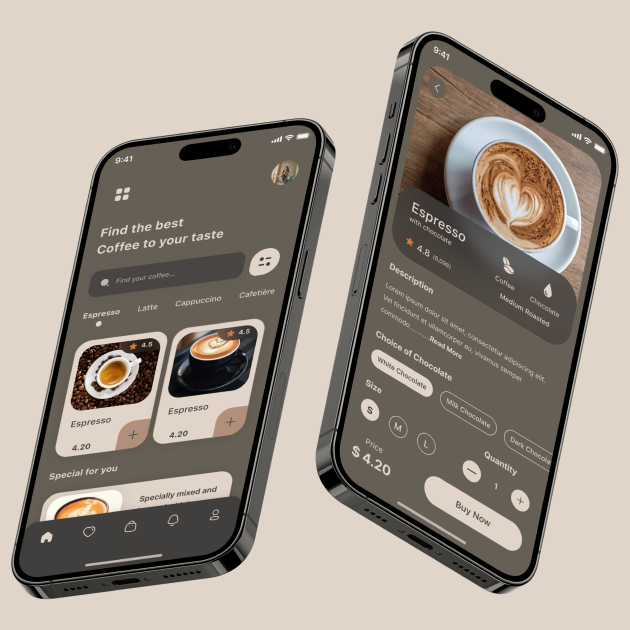
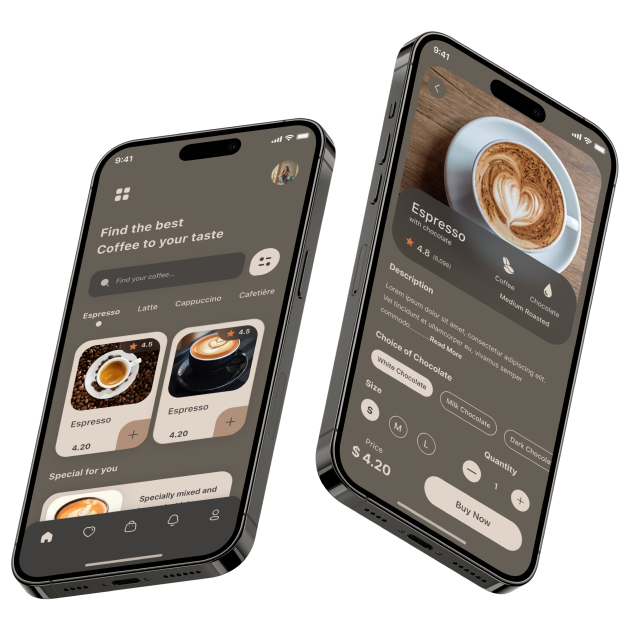
feat: implement dark theme styles across main page

diff --git a/index.html b/index.html
@@ -136,7 +136,7 @@
             <div class="right circle-container">
                 <div class="circle">
                     <svg class="arrow-svg" width="24" height="24" viewBox="0 0 24 24" fill="none" xmlns="http://www.w3.org/2000/svg">
-                        <path d="M6 12H18.5M18.5 12L12.5 6M18.5 12L12.5 18" stroke="#403F3D" stroke-linecap="round" stroke-linejoin="round"/>
+                        <path d="M6 12H18.5M18.5 12L12.5 6M18.5 12L12.5 18" stroke="currentColor" stroke-linecap="round" stroke-linejoin="round"/>
                     </svg>
                 </div>
             </div>
@@ -168,7 +168,7 @@
         <div class="mobile-app-container">
             <div class="offer-box">
                 <div class="big-text">
-                    <h2><i>Download</i> our apps </h2>
+                    <h2><i>Download</i> our app </h2>
                     <h2>to start ordering</h2>
                 </div>
                 <div class="small-text">
@@ -178,8 +178,8 @@
                 <div class="buttons-box">
                     <div class="app-store-btn">
                         <svg width="28" height="33" viewBox="0 0 28 33" fill="none" xmlns="http://www.w3.org/2000/svg">
-                            <path d="M22.7073 17.6307C22.6704 13.6324 26.065 11.6872 26.2203 11.5966C24.2977 8.86366 21.3178 8.49026 20.2707 8.46048C17.7679 8.20369 15.3403 9.92062 14.0654 9.92062C12.765 9.92062 10.8017 8.48529 8.68579 8.52747C5.96293 8.56841 3.41566 10.1055 2.0186 12.4923C-0.864579 17.359 1.28572 24.5108 4.04802 28.4446C5.42981 30.3712 7.04444 32.5223 9.15784 32.4466C11.2254 32.3635 11.9978 31.1614 14.4929 31.1614C16.9651 31.1614 17.6903 32.4466 19.8457 32.3983C22.0647 32.3635 23.4618 30.463 24.7952 28.519C26.392 26.3108 27.0333 24.1362 27.0588 24.0245C27.0066 24.0071 22.7493 22.4229 22.7073 17.6307Z" fill="#403F3D"/>
-                            <path d="M18.6357 5.87268C19.7477 4.51675 20.5086 2.67205 20.2974 0.800049C18.6879 0.86952 16.675 1.88554 15.5159 3.21169C14.4903 4.38029 13.5742 6.29571 13.8109 8.097C15.6189 8.2285 17.4753 7.20752 18.6357 5.87268Z" fill="#403F3D"/>
+                            <path d="M22.7073 17.6307C22.6704 13.6324 26.065 11.6872 26.2203 11.5966C24.2977 8.86366 21.3178 8.49026 20.2707 8.46048C17.7679 8.20369 15.3403 9.92062 14.0654 9.92062C12.765 9.92062 10.8017 8.48529 8.68579 8.52747C5.96293 8.56841 3.41566 10.1055 2.0186 12.4923C-0.864579 17.359 1.28572 24.5108 4.04802 28.4446C5.42981 30.3712 7.04444 32.5223 9.15784 32.4466C11.2254 32.3635 11.9978 31.1614 14.4929 31.1614C16.9651 31.1614 17.6903 32.4466 19.8457 32.3983C22.0647 32.3635 23.4618 30.463 24.7952 28.519C26.392 26.3108 27.0333 24.1362 27.0588 24.0245C27.0066 24.0071 22.7493 22.4229 22.7073 17.6307Z" fill="currentColor"/>
+                            <path d="M18.6357 5.87268C19.7477 4.51675 20.5086 2.67205 20.2974 0.800049C18.6879 0.86952 16.675 1.88554 15.5159 3.21169C14.4903 4.38029 13.5742 6.29571 13.8109 8.097C15.6189 8.2285 17.4753 7.20752 18.6357 5.87268Z" fill="currentColor"/>
                         </svg>
                         <div class="app-store-text">
                             <p class="btn-text-small">Available on the</p>
@@ -188,10 +188,10 @@
                     </div>
                     <div class="google-play-btn">
                         <svg width="31" height="34" viewBox="0 0 31 34" fill="none" xmlns="http://www.w3.org/2000/svg">
-                            <path d="M0.755796 2.20297C0.393349 2.57289 0.183594 3.14884 0.183594 3.89471V30.4994C0.183594 31.2453 0.393349 31.8212 0.755796 32.1911L0.845252 32.2723L16.1359 17.37V17.0181L0.845252 2.11575L0.755796 2.20297Z" fill="#403F3D"/>
-                            <path d="M23.0776 22.34L17.9863 17.37V17.0181L23.0837 12.0482L23.1979 12.1128L29.2345 15.4617C30.9573 16.4121 30.9573 17.976 29.2345 18.9324L23.1979 22.2753L23.0776 22.34Z" fill="#403F3D"/>
-                            <path d="M22.2733 23.2007L17.0617 18.1195L1.68164 33.1166C2.25384 33.7031 3.18695 33.7737 4.24807 33.1873L22.2733 23.2007Z" fill="#403F3D"/>
-                            <path d="M22.2733 11.1876L4.24807 1.20103C3.18695 0.620579 2.25384 0.691254 1.68164 1.27772L17.0617 16.2688L22.2733 11.1876Z" fill="#403F3D"/>
+                            <path d="M0.755796 2.20297C0.393349 2.57289 0.183594 3.14884 0.183594 3.89471V30.4994C0.183594 31.2453 0.393349 31.8212 0.755796 32.1911L0.845252 32.2723L16.1359 17.37V17.0181L0.845252 2.11575L0.755796 2.20297Z" fill="currentColor"/>
+                            <path d="M23.0776 22.34L17.9863 17.37V17.0181L23.0837 12.0482L23.1979 12.1128L29.2345 15.4617C30.9573 16.4121 30.9573 17.976 29.2345 18.9324L23.1979 22.2753L23.0776 22.34Z" fill="currentColor"/>
+                            <path d="M22.2733 23.2007L17.0617 18.1195L1.68164 33.1166C2.25384 33.7031 3.18695 33.7737 4.24807 33.1873L22.2733 23.2007Z" fill="currentColor"/>
+                            <path d="M22.2733 11.1876L4.24807 1.20103C3.18695 0.620579 2.25384 0.691254 1.68164 1.27772L17.0617 16.2688L22.2733 11.1876Z" fill="currentColor"/>
                         </svg>
                         <div class="google-play-text">
                             <p class="btn-text-small">Available on</p>

diff --git a/styles/index.css b/styles/index.css
@@ -131,7 +131,6 @@ header {
     color: var(--color-light);
 }
 
-
 .theme-btn svg {
     width: 18px;
     height: 18px;
@@ -142,7 +141,10 @@ header {
     color: var(--color-bg);
 }
 
-
+/* Луна в тёмной теме */
+[data-theme="dark"] .theme-btn[data-theme="dark"][aria-pressed="true"] {
+    color: var(--color-light);
+}
 
 
 .menu-link {
@@ -312,12 +314,12 @@ h1 {
     font-weight: 600;
     line-height: 75px;
     text-align: center;
-    color: #403F3D;
+    color: var(--color-text);
     margin-top: 100px;
 }
 
 h1 i {
-    color: #B0907A;
+    color: var(--color-accent);
 }
 
 .fav-coffee-slider-container {
@@ -339,7 +341,7 @@ h1 i {
 }
 
 .coffee-title {
-    color:#403F3D;
+    color: var(--color-text);
     font-size: 24px;
     font-weight: 600;
     line-height: 30px;
@@ -354,7 +356,7 @@ h1 i {
 }
 
 .coffee-info p {
-    color:#403F3D;
+    color: var(--color-text);
     font-size: 16px;
     font-weight: 400;
     line-height:24px;
@@ -362,7 +364,7 @@ h1 i {
 }
 
 .coffee-price {
-    color:#403F3D;
+    color: var(--color-text);
     font-size: 24px;
     font-weight: 600;
     line-height: 30px;
@@ -375,8 +377,8 @@ h1 i {
     width: 60px;
     height: 60px;
     border-radius: 100px;
-    border:1px solid #665F55;
-    color: #403F3D;
+    border: 1px solid var(--color-text);
+    color: var(--color-text);
     transition: background-color 0.6s;
 }
 
@@ -386,15 +388,13 @@ h1 i {
 }
 
 .circle:hover {
-    background-color: #665F55;
+    background-color: var(--color-surface-dark);
     transition: background-color 0.6s;
 }
 
 .circle-container:hover svg path{
-    stroke: #E1D4C9;
+    stroke: var(--color-light);
 }
-
-
 
 .controls {
     display: flex;
@@ -404,16 +404,23 @@ h1 i {
 }
 
 .control {
-    background-color:#C1B6AD;
+    background-color: #C1B6AD;
     width: 40px;
     height: 4px;
     border-radius: 100px;
 }
 
 .control.active {
-    background-color:#665F55;
+    background-color: var(--color-surface-dark);
 }
 
+[data-theme="dark"] .control {
+    background-color: var(--color-surface-dark);
+}
+
+[data-theme="dark"] .control.active {
+    background-color: #C1B6AD;
+}
 
 /* SECTION =====ABOUT=========================================== */
 
@@ -430,11 +437,11 @@ h1 i {
     line-height: 75px;
     font-weight: 600;
     margin: 0;
-    color: #403F3D;
+    color: var(--color-text);
 }
 
 .about-text-block h2 i {
-    color:#B0907A;
+    color: var(--color-accent);
 }
 
 .image-block {
@@ -519,11 +526,11 @@ h1 i {
     font-weight: 600;
     line-height: 75px;
     margin: 0;
-    color: #403F3D;
+    color: var(--color-text);
 }
 
 .big-text i {
-    color: #B0907A;
+    color: var(--color-accent);
 }
 
 .small-text {
@@ -534,7 +541,7 @@ h1 i {
     font-size: 16px;
     font-weight: 400;
     line-height: 24px;
-    color: #403F3D;
+    color: var(--color-text);
     margin: 0;
 }
 
@@ -556,7 +563,7 @@ h1 i {
     width:200px;
     height: 64px;
     gap: 12px;
-    border: 1px solid #665F55;
+    border: 1px solid var(--color-text);
     border-radius: 100px;
     transition: background-color 0.6s;
 }
@@ -569,7 +576,7 @@ h1 i {
 
 .app-store-text,
 .google-play-text {
-    color: #403F3D;
+    color: var(--color-text);
 }
 
 .btn-text-small {
@@ -589,19 +596,39 @@ h1 i {
 
 .app-store-btn:hover,
 .google-play-btn:hover{
-    background-color: #665F55;
+    background-color: var(--color-surface-dark);
     transition: background-color 0.6s;
 }
 
 .app-store-btn:hover path,
 .google-play-btn:hover path {
-    fill: #E1D4C9;
+    fill: var(--color-light);
 }
 
 .app-store-text:hover,
 .google-play-text:hover {
-    color: #E1D4C9;
+    color: var(--color-light);
 }
+
+[data-theme="dark"] .app-store-btn .google-play-text {
+    color: var(--color-text);
+}
+
+[data-theme="dark"] .app-store-btn svg path {
+    fill: var(--color-text);
+}
+
+[data-theme="dark"] .google-play-btn .google-play-text {
+    color: var(--color-text);
+}
+
+[data-theme="dark"] .google-play-btn svg path {
+    fill: var(--color-text);
+}
+
+
+
+
 
 /* FOOTER===== CONTACT US========================================== */
 
